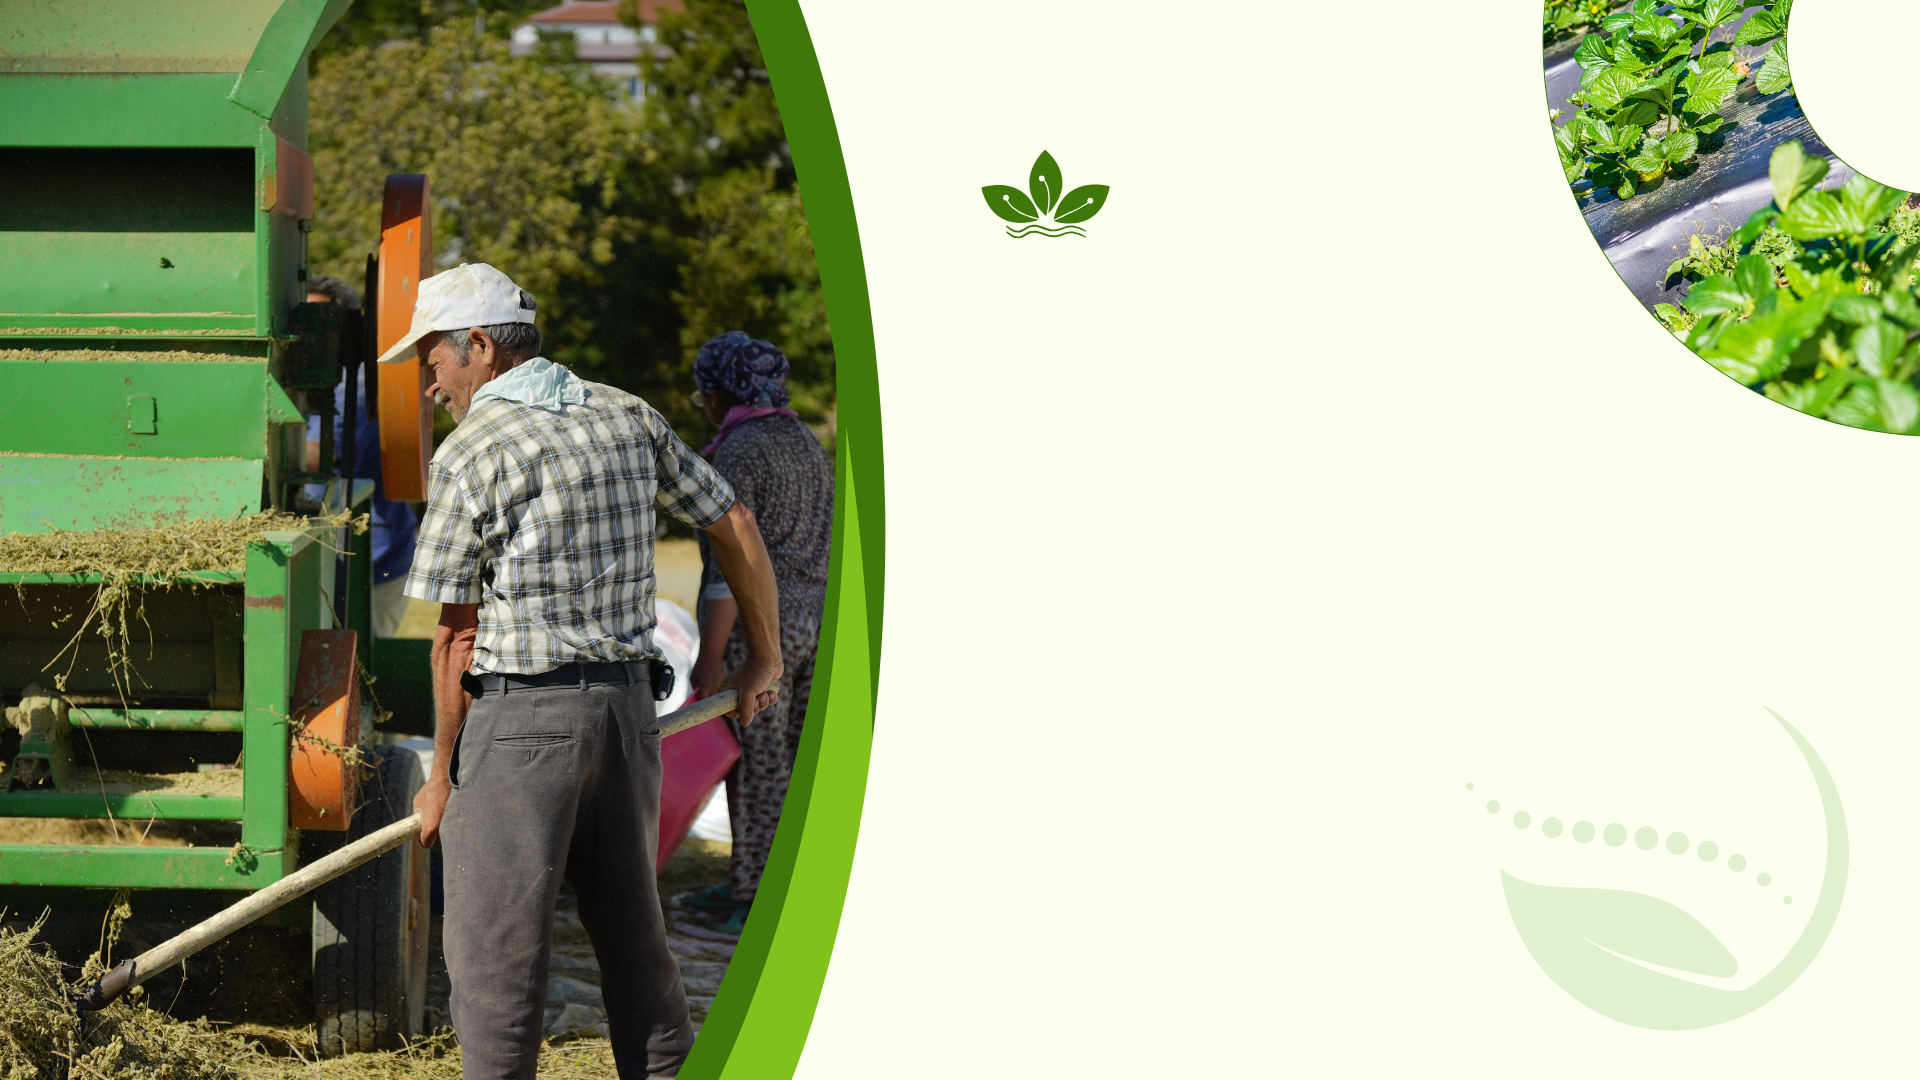
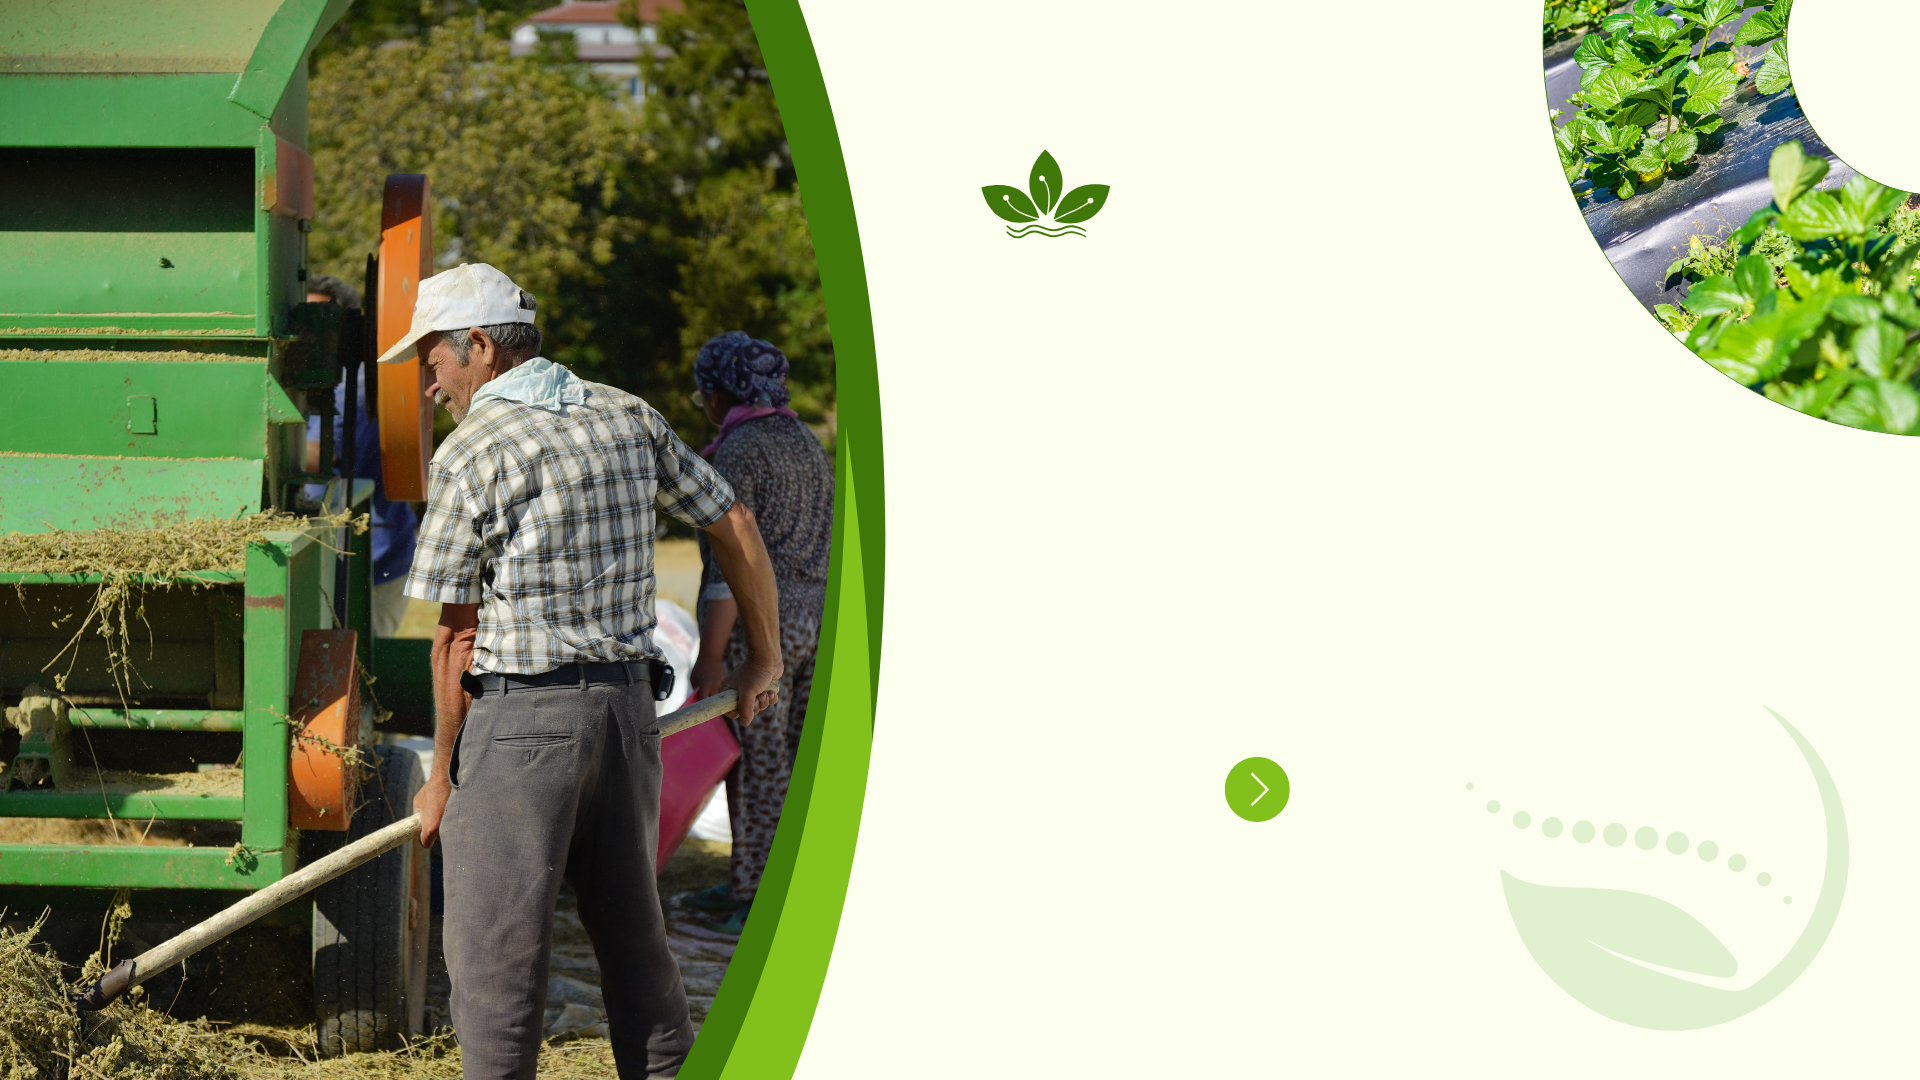
17-05

diff --git a/index.html b/index.html
@@ -7,15 +7,15 @@
 </head>
 <body>
 
-    <main>
 
 
-        
-    </main>
+    <section class="secao1"></section>
 
 
+    <section class="secao2"></section>
+    
 
-
+    <section class="secao3"></section>
     
 </body>
 </html>

diff --git a/sytle.css b/sytle.css
@@ -1,0 +1,5 @@
+.secao1{
+background-image: url(capa.png) ;
+background-repeat: no-repeat;
+background-position: center;
+}